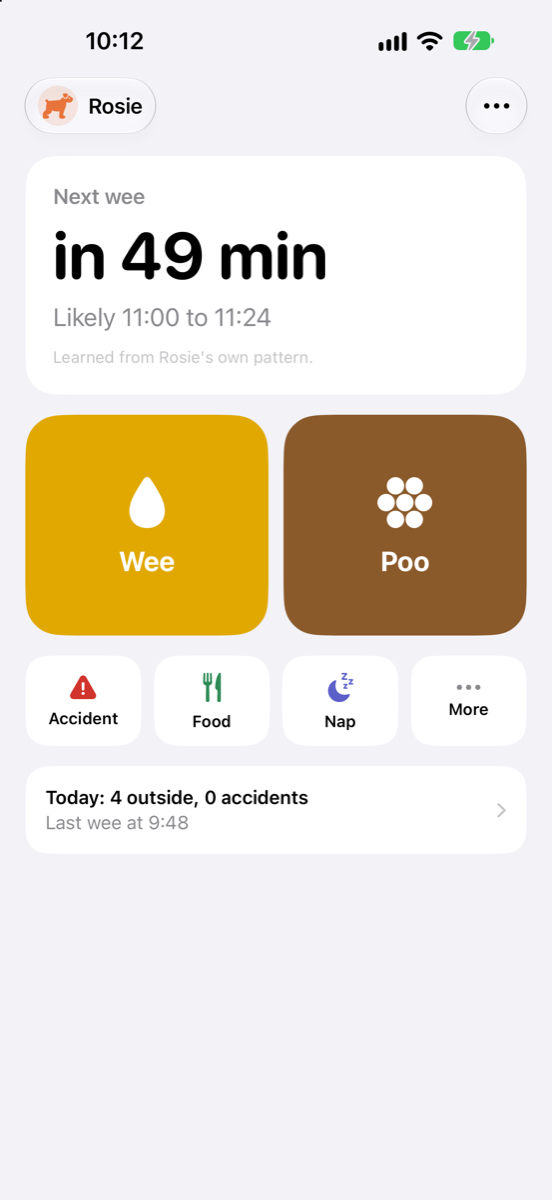
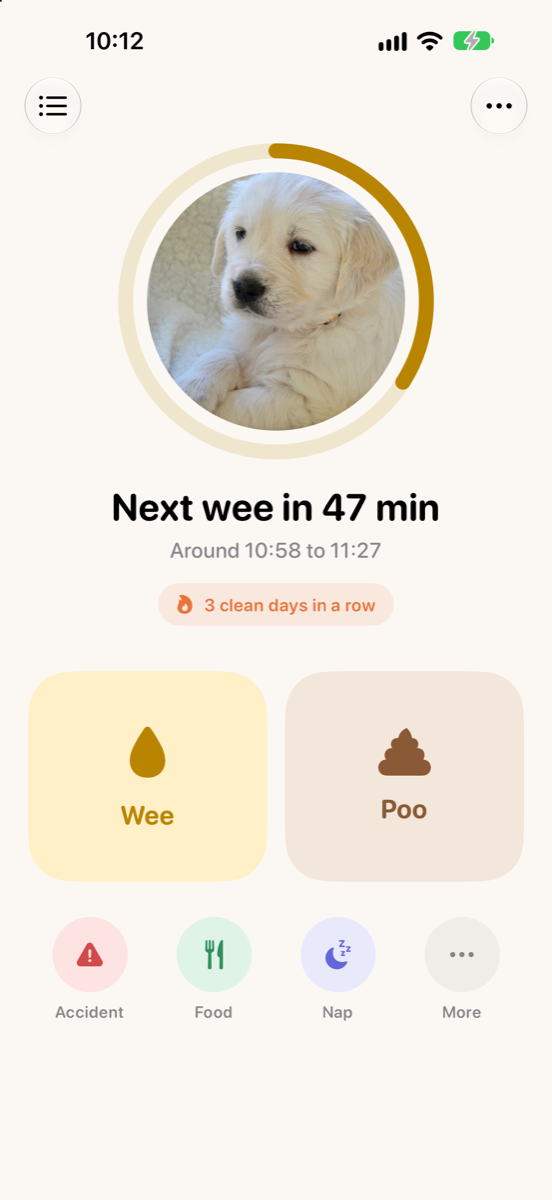
Redesign screenshot, train together

diff --git a/index.html b/index.html
@@ -30,6 +30,7 @@
     <div class="grid">
       <div class="card"><h3>One tap, anywhere</h3><p>Home Screen and Lock Screen widgets, Control Center, the Action Button, Siri and notification buttons. Log without opening the app.</p></div>
       <div class="card"><h3>Knows when they need to go</h3><p>Predictions from the first hour, based on age and size, shown as an honest time window. With Pro it learns your puppy's own pattern.</p></div>
+      <div class="card"><h3>Train together</h3><p>Share your puppy with your partner through iCloud. You both log, you both get reminders, and you can see who logged what.</p></div>
       <div class="card"><h3>Quiet while they sleep</h3><p>Nap and bedtime modes pause reminders. No pings while your puppy is finally asleep.</p></div>
       <div class="card"><h3>Smart nudges</h3><p>Just woke up? Just eaten? Toilet Pup knows the moments that matter and reminds you at the right time.</p></div>
       <div class="card"><h3>See them get there</h3><p>Accident heatmap, longest hold trend, trouble windows, and a "House trained!" certificate after 14 clean days.</p></div>
@@ -46,6 +47,7 @@
       <tr><td>Next-wee window and reminders</td><td>Age-based</td><td>Learns your puppy</td></tr>
       <tr><td>Nap and bedtime pause</td><td>Yes</td><td>Yes</td></tr>
       <tr><td>Smart nudges, night alarm, quiet hours</td><td></td><td>Yes</td></tr>
+      <tr><td>Share your puppy with your partner</td><td></td><td>Yes</td></tr>
       <tr><td>Insights, PDF report, multiple puppies</td><td></td><td>Yes</td></tr>
       <tr><td>CSV export</td><td>Yes</td><td>Yes</td></tr>
     </table>
